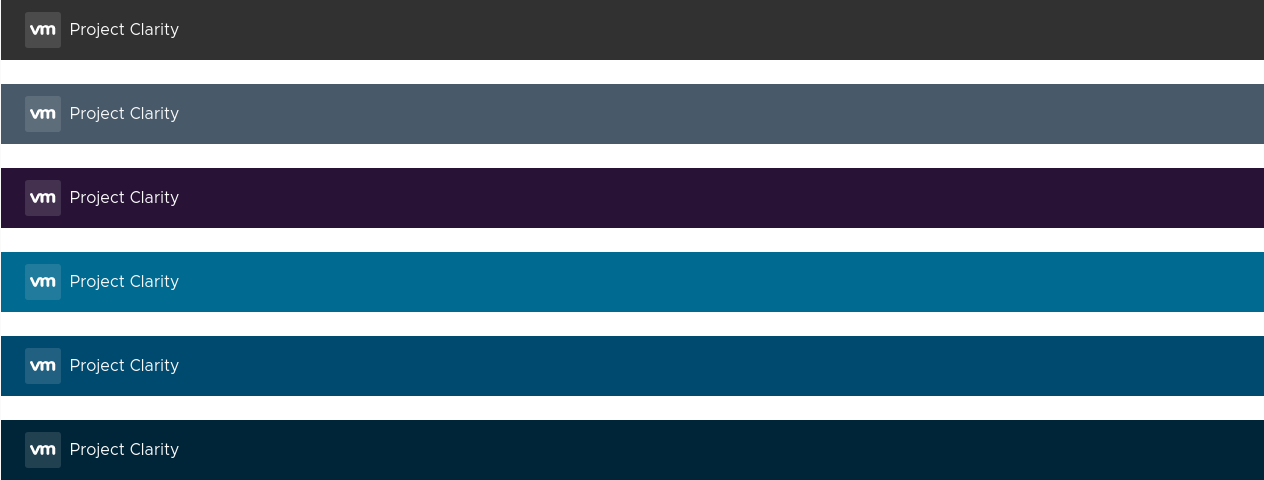
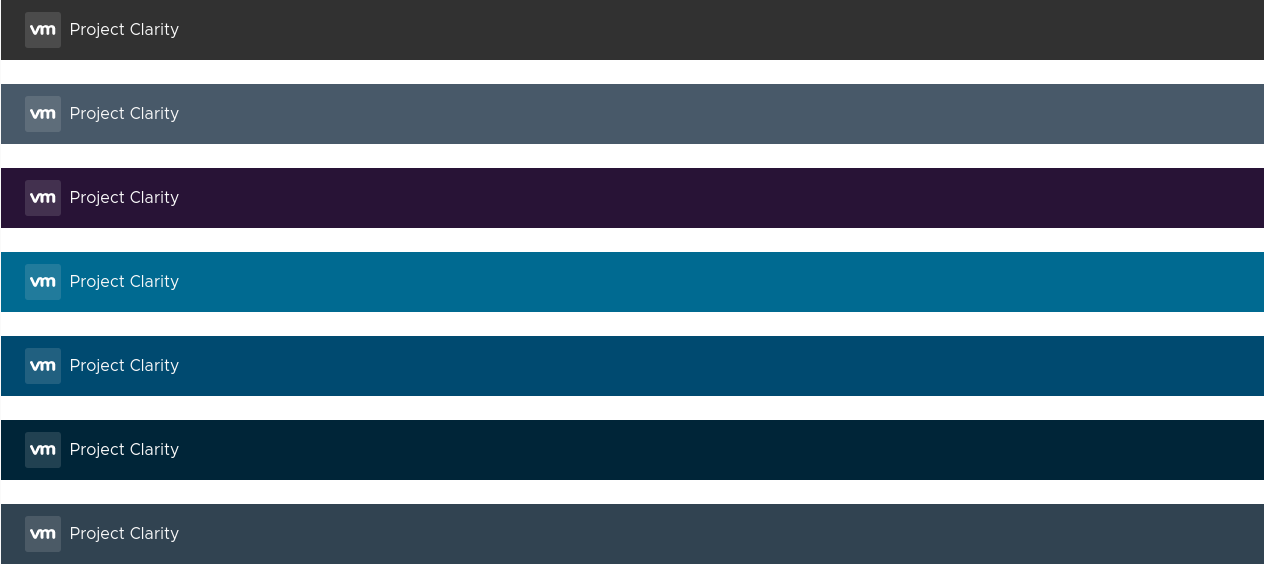
[UI] Added header color #314351

diff --git a/src/app/nav/header-colors.demo.html b/src/app/nav/header-colors.demo.html
@@ -51,7 +51,16 @@
             </div>
         </header>
 
-        <header class="header header-6">
+        <header class="header header-6 space-below">
+            <div class="branding">
+                <a href="javascript://">
+                    <clr-icon shape="vm-bug"></clr-icon>
+                    <span class="title">Project Clarity</span>
+                </a>
+            </div>
+        </header>
+
+        <header class="header header-7">
             <div class="branding">
                 <a href="javascript://">
                     <clr-icon shape="vm-bug"></clr-icon>
@@ -84,6 +93,10 @@
     &lt;/header&gt;
 
     &lt;header class=&quot;header header-6&quot;&gt;
+        ...
+    &lt;/header&gt;
+
+    &lt;header class=&quot;header header-7&quot;&gt;
         ...
     &lt;/header&gt;
     </code>

diff --git a/src/clarity-angular/nav/_header.clarity.scss b/src/clarity-angular/nav/_header.clarity.scss
@@ -126,7 +126,8 @@ $clr-header-nav-text-horizontal-padding: $clr_baselineRem_1;
         }
 
         &.header-2{
-            background-color: #485969; //Harcoded because this color is not in the color palette. Its reserved for headers only
+            //Hardcoded because this color is not in the color palette. Its reserved for headers only
+            background-color: #485969;
         }
 
         &.header-3{
@@ -143,6 +144,11 @@ $clr-header-nav-text-horizontal-padding: $clr_baselineRem_1;
 
         &.header-6{
             background-color: $action-blues-darkest;
+        }
+
+        &.header-7{
+            //Hardcoded because this color is not in the color palette. Its reserved for headers only
+            background-color: #314351;
         }
     }
 
